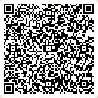
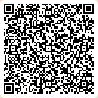
Combined card download and QR resolution

Changed region(s): [[0.0306, 0.0306, 0.9796, 0.9796]]

diff --git a/cards/qr_test.go b/cards/qr_test.go
@@ -5,7 +5,9 @@ import (
 )
 
 func TestCropFix(t *testing.T) {
-	path := "cards/en/p_c_9764.jpeg"
+	path := "cards/en/p_c_24894.jpeg"
+	// path := "cards/en/p_c_83846.jpeg"
+	// path := "cards/en/p_c_107552.jpeg"
 
 	img, err := cropQR(path)
 	if err != nil {
@@ -31,6 +33,8 @@ func TestCropFix(t *testing.T) {
 
 func TestResolveQR(t *testing.T) {
 	path := "cards/en/p_c_24894.jpeg"
+	// path := "cards/en/p_c_83846.jpeg"
+	// path := "cards/en/p_c_107552.jpeg"
 
 	img, err := cropQR(path)
 	if err != nil {
@@ -51,7 +55,7 @@ func TestResolveQR(t *testing.T) {
 		t.Errorf("Could not strip URL: %v", err)
 	}
 
-	expected := "https://www.fragrantica.com/perfume/I-Profumi-di-Firenze/Acqua-Chiara-9764.html"
+	expected := "https://www.fragrantica.com/perfume/Puma/Puma-Yellow-Brasil-Edition-24894.html"
 	if stripped != expected {
 		t.Errorf("Unexpected result: %s:%s", stripped, expected)
 	}

diff --git a/main.go b/main.go
@@ -6,6 +6,7 @@ import (
 	"log"
 
 	_ "github.com/lib/pq"
+	"github.com/slikasp/dbmanfrags/cards"
 	"github.com/slikasp/dbmanfrags/config"
 	"github.com/slikasp/dbmanfrags/database"
 	"github.com/slikasp/dbmanfrags/fragrances"
@@ -53,11 +54,18 @@ func main() {
 		log.Fatalf("Error reading config: %v", err)
 	}
 
-	log.Println("application started")
+	log.Println(">>>application started")
 
 	// Run
+	err = cards.CheckMissingCards(stt)
+	if err != nil {
+		log.Fatalf("Failed getting new cards: %v", err)
+	}
+
 	err = fragrances.AddMissingFragrances(stt)
 	if err != nil {
-		log.Fatalf("Failed running commands: %v", err)
+		log.Fatalf("Failed adding new fragrances: %v", err)
 	}
+
+	log.Println(">>>application closed")
 }

diff --git a/fragrances/fragrances.go b/fragrances/fragrances.go
@@ -76,8 +76,10 @@ func AddMissingFragrances(state *config.State) error {
 
 		urlCard, err := cards.GetLinkFromCard(card.Image)
 		if err != nil {
-			// return fmt.Errorf("Failed parsing QR for %d: %s", id, err)
+			// If QR decoding fails, set has_card to false, the card will be redownloaded on the next check
+			// This is required because some cards are generated with empty QR
 			log.Printf("Failed decoding card ID %d", id)
+			state.DB.InvalidateCard(context.Background(), id)
 			continue
 		}
 

diff --git a/database/cards.sql.go b/database/cards.sql.go
@@ -140,6 +140,17 @@ func (q *Queries) GetMissingCardIDs(ctx context.Context) ([]int32, error) {
 	return items, nil
 }
 
+const invalidateCard = `-- name: InvalidateCard :exec
+UPDATE cards 
+SET has_card = 'f'
+WHERE fragrantica_id = $1
+`
+
+func (q *Queries) InvalidateCard(ctx context.Context, fragranticaID int32) error {
+	_, err := q.db.ExecContext(ctx, invalidateCard, fragranticaID)
+	return err
+}
+
 const refreshCard = `-- name: RefreshCard :exec
 UPDATE cards 
 SET downloaded = NOW()

diff --git a/cards/cards_test.go b/cards/cards_test.go
@@ -22,7 +22,7 @@ func TestMakers(t *testing.T) {
 }
 
 func TestDownload(t *testing.T) {
-	card1, err := downloadCard(9764)
+	card1, err := downloadCard(107552)
 	if err != nil {
 		t.Errorf("Download failed: %v", err)
 	}

diff --git a/README.md b/README.md
@@ -3,10 +3,12 @@
 Database manager for a global list of fragrances, used in my FragranceTrackGo project. The database itself is hosted on Supabase.
 
 Used a fragrantica.com dataset from 2025 to start (24k records), found here: https://www.kaggle.com/datasets/olgagmiufana1/fragrantica-com-fragrance-dataset
-
 Made some modifications for ease of use and developing this manager to update the database.
-Currently over 80k records with existing cards (8 GB in size). Planning to have them locally and update if needed (another option is to fetche them from the source)
-QR codes in the cards are stretched in both directions for some reason, so I have to fix them before decoding.
+
+Added functions to download the 'cards' that they have for most fragrances, they contain most of the information including a QR code with URL to the fragrance itself.
+Currently over 80k records with existing cards (8 GB in size). Planning to have them locally and update if needed (another option is to fetch them from the source).
+QR codes in the cards are stretched in both directions for some reason, so they have to be fixed before decoding, most of them decoded and added to the original list of fragrances.
+
 Getting remaining details from HTML will be a challenge, but should be pissible based on my research done for the Python equivalent.
 
 <ol> Current plan to get the required details:
